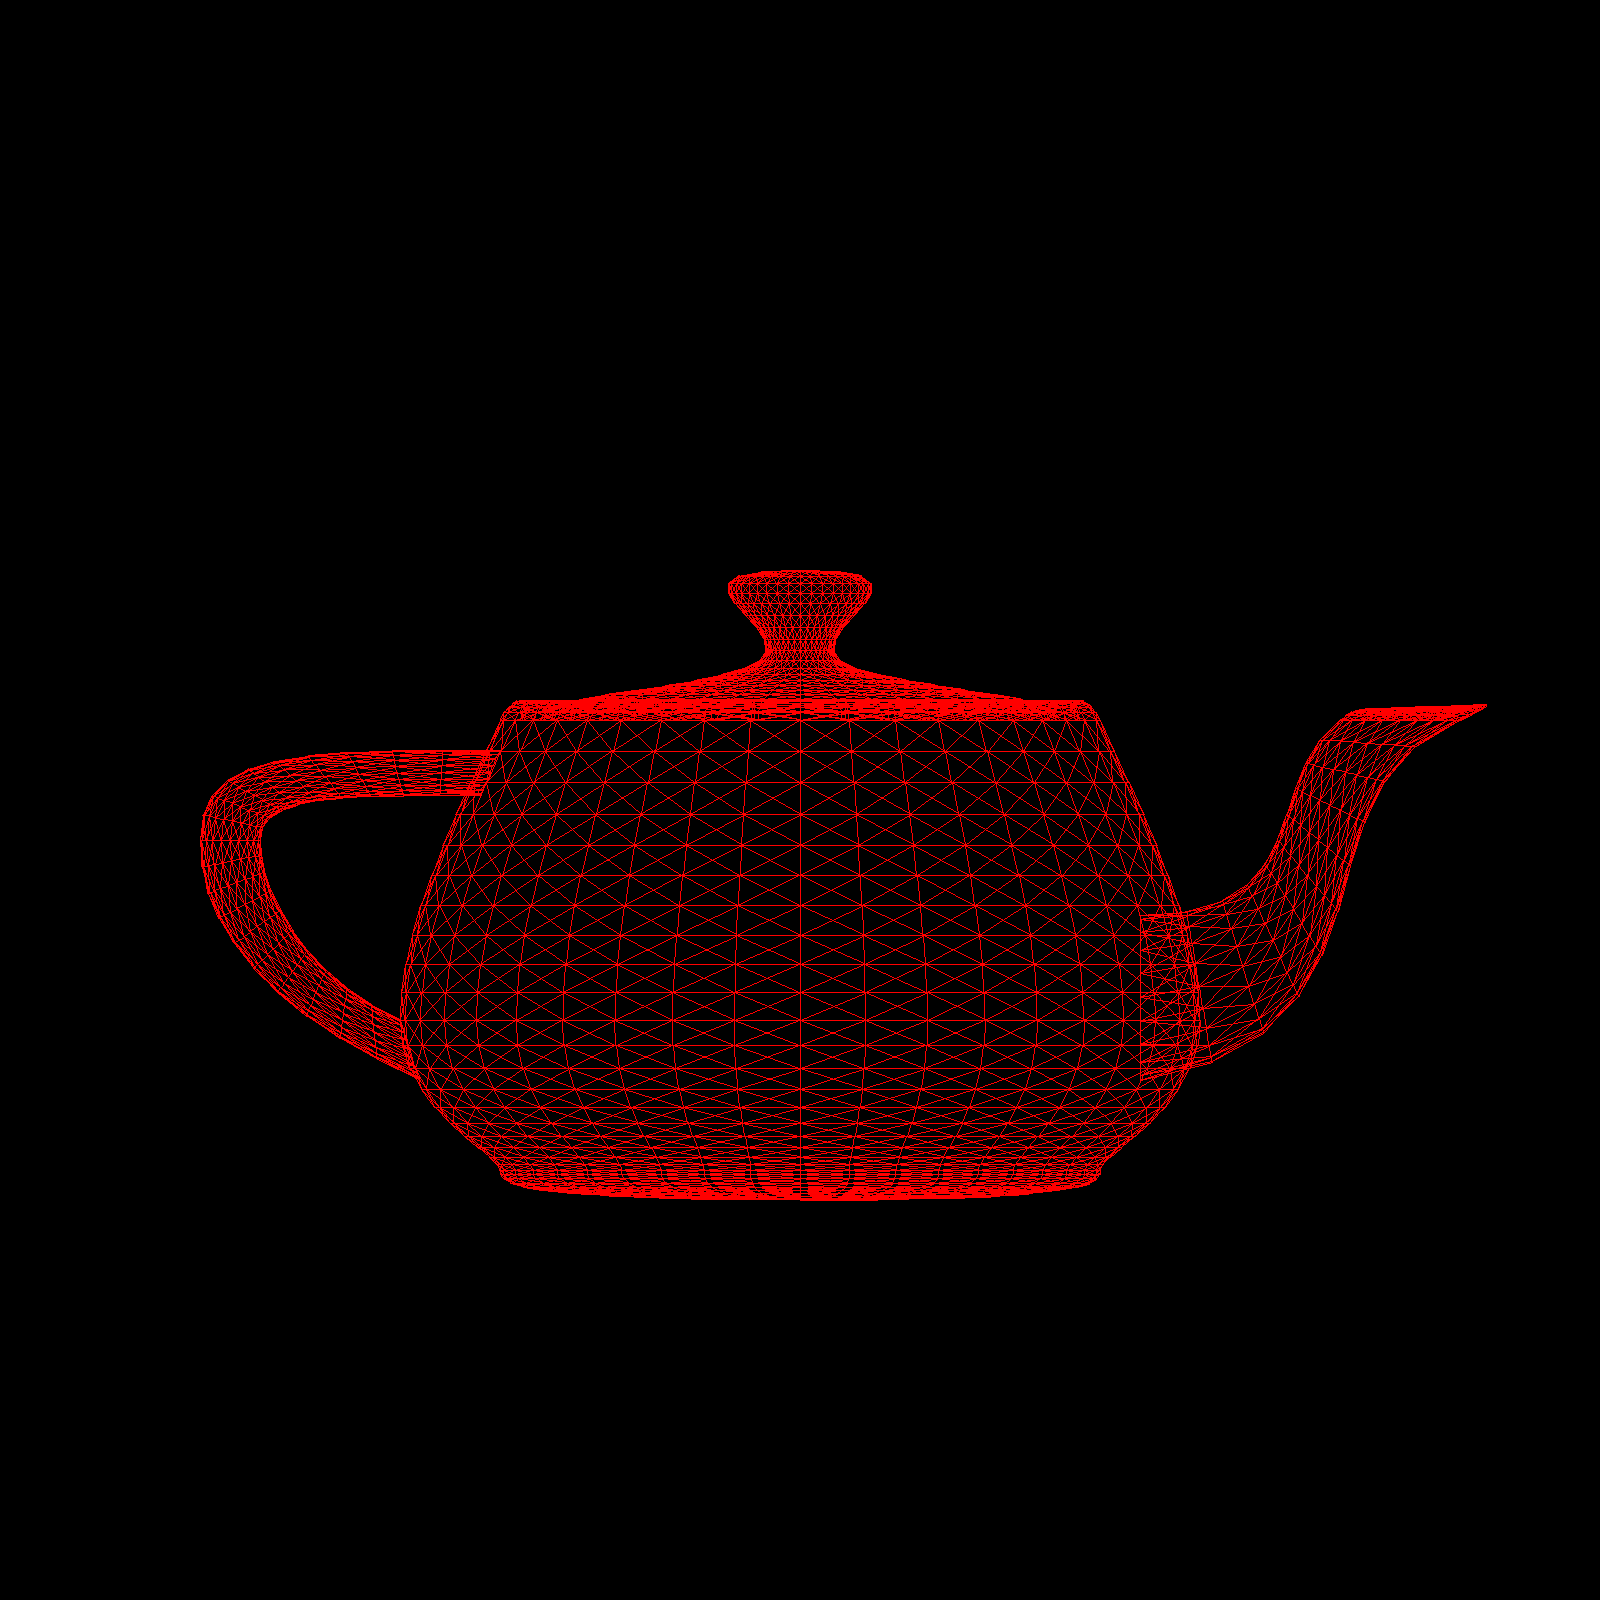
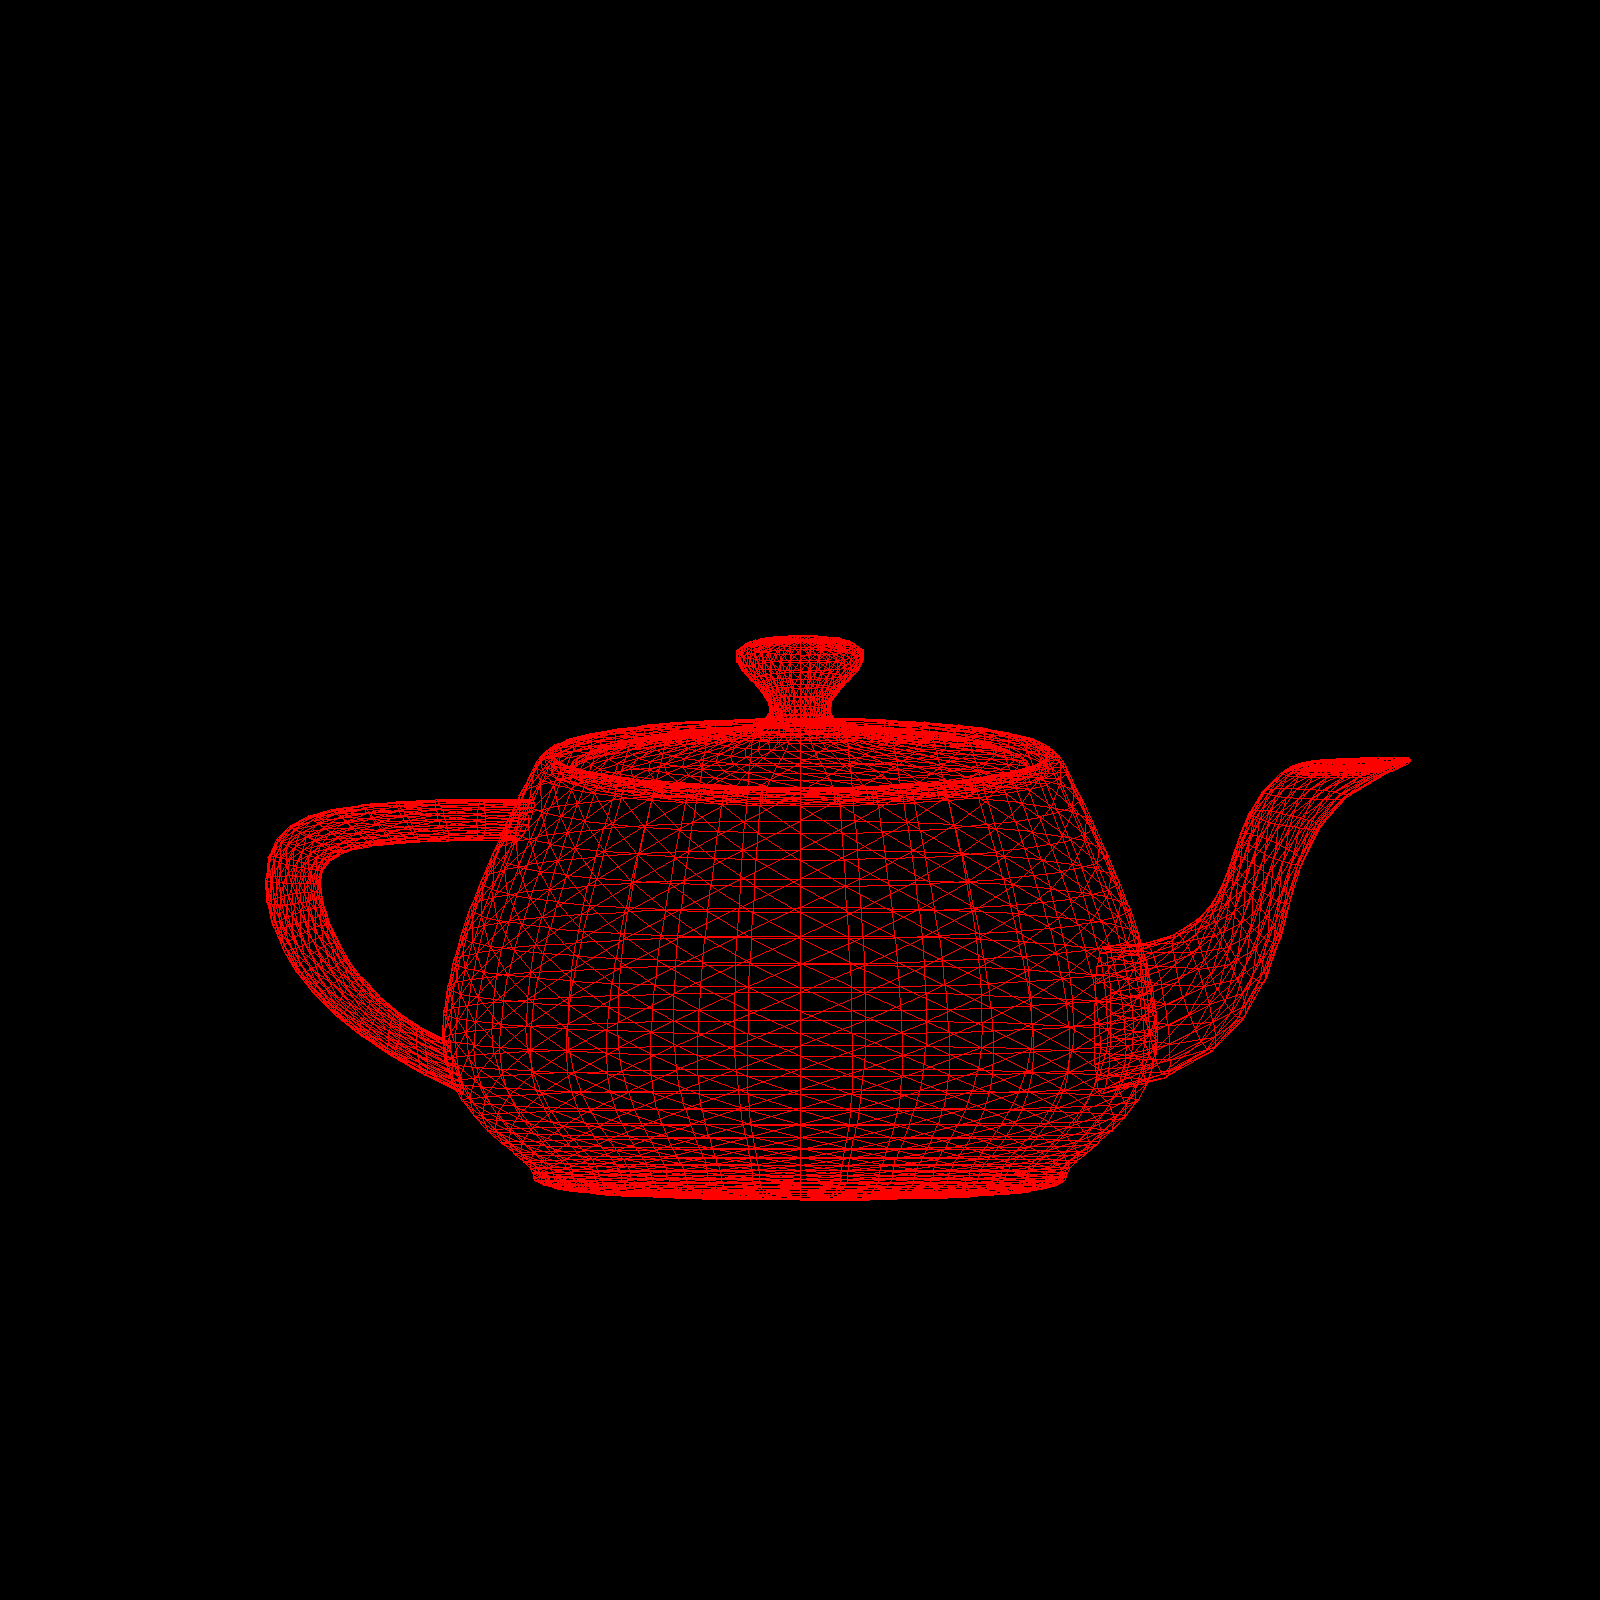
Perspective projection w/out perspective proj matrix

Changed region(s): [[0.125, 0.3438, 0.9375, 0.75]]

diff --git a/SoftwareRenderer/src/sr.cpp b/SoftwareRenderer/src/sr.cpp
@@ -32,7 +32,7 @@ public:
 	}
 
 	void set(int x, int y, Color color) {
-		if (x < 0 || y < 0 || x >= width | y >= height) {
+		if (x < 0 || y < 0 || x >= width || y >= height) {
 			return;
 		}
 
@@ -58,10 +58,11 @@ void drawLine(Vec3f vertex1, Vec3f vertex2, Color &color, Image &pixelBuffer) {
 	// To NDC
 	// constant is expressing how far from camera Z-plane is located
 	const int HOW_FAR_Z_PLANE = 4;
-	float x1 =  vertex1.x / HOW_FAR_Z_PLANE;
-	float y1 = -vertex1.y / HOW_FAR_Z_PLANE;
-	float x2 =  vertex2.x / HOW_FAR_Z_PLANE;
-	float y2 = -vertex2.y / HOW_FAR_Z_PLANE;
+	//	2.0 and 4.0 are a normalization constants
+	float x1 =  vertex1.x / ((vertex1.z + 2.0f) / 4 + HOW_FAR_Z_PLANE);
+	float y1 = -vertex1.y / ((vertex1.z + 2.0f) / 4 + HOW_FAR_Z_PLANE);
+	float x2 =  vertex2.x / ((vertex2.z + 2.0f) / 4 + HOW_FAR_Z_PLANE);
+	float y2 = -vertex2.y / ((vertex2.z + 2.0f) / 4 + HOW_FAR_Z_PLANE);
 
 	// NDC to viewport
 	x1 = (x1 + 1.0f) / 2 * pixelBuffer.width;
